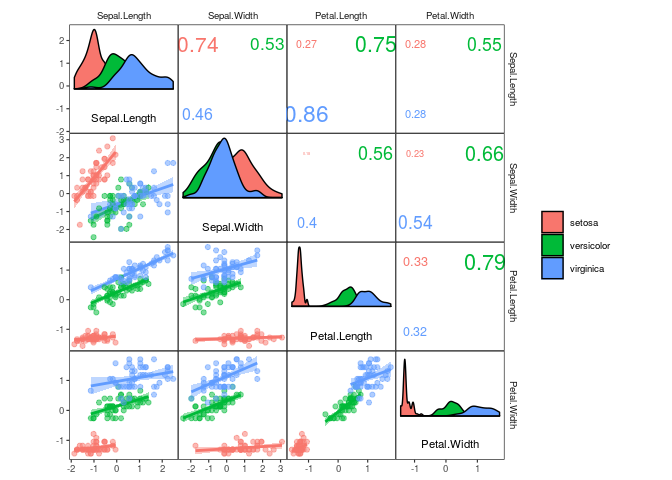
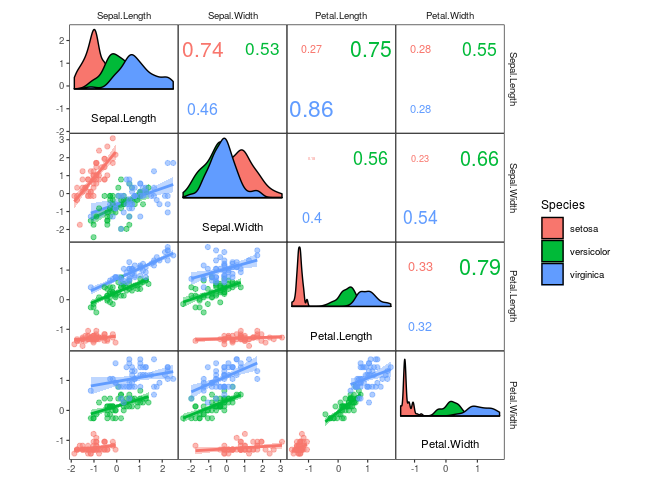
Update figures in README
* legend titles,

* squeeze argument.

diff --git a/README.md b/README.md
@@ -2,26 +2,30 @@ corrmorant: Flexible Correlation Matrices Based on ggplot2
 ================
 Roman M. Link
 
-## Description
+Description
+-----------
 
-`corrmorant` extends `ggplot2` by an automated framework for plots of
-correlation matrices that can be easily modified via regular `ggplot2`
-syntax. In addition, it provides a large set of visualization tools for
-exploratory data analysis based on correlation matrices.
+`corrmorant` extends `ggplot2` by an automated framework for plots of correlation matrices that can be easily modified via regular `ggplot2` syntax. In addition, it provides a large set of visualization tools for exploratory data analysis based on correlation matrices.
 
-| Please note that this project is a work in progress\!                                                                                                                                                                                                                                                                                                          |
-| -------------------------------------------------------------------------------------------------------------------------------------------------------------------------------------------------------------------------------------------------------------------------------------------------------------------------------------------------------------- |
-| This package is in steady development. Whenever I have time, I add or change some features. A somewhat stable version should not be too far away - look out for announcements over here. I will then begin with a regular versioning process. Until the package reaches this stage, please note that features may changes or disappear without further notice. |
+<table>
+<colgroup>
+<col width="100%" />
+</colgroup>
+<thead>
+<tr class="header">
+<th>Please note that this project is a work in progress!</th>
+</tr>
+</thead>
+<tbody>
+<tr class="odd">
+<td>This package is in steady development. Whenever I have time, I add or change some features. A somewhat stable version should not be too far away - look out for announcements over here. I will then begin with a regular versioning process. Until the package reaches this stage, please note that features may changes or disappear without further notice.</td>
+</tr>
+</tbody>
+</table>
 
-A big thank you goes out to the developers of the software without which
-this package would not be possible, especially [Hadley
-Wickham](https://github.com/hadley/) and the rest of the
-[ggplot2](https://github.com/tidyverse/ggplot2) development team for
-their incredible work.
+A big thank you goes out to the developers of the software without which this package would not be possible, especially [Hadley Wickham](https://github.com/hadley/) and the rest of the [ggplot2](https://github.com/tidyverse/ggplot2) development team for their incredible work.
 
-Here\`s a list of everyone else directly or indirectly implied in this
-package - thanks a lot for your invaluable contribution to the R
-community:
+Here\`s a list of everyone else directly or indirectly implied in this package - thanks a lot for your invaluable contribution to the R community:
 
 ``` r
 # Contributers to the packages used in corrmorant
@@ -36,71 +40,41 @@ thankr::shoulders(package = "corrmorant") %>%
   knitr::kable()
 ```
 
-| maintainer          | packages                                                                          |
-| :------------------ | :-------------------------------------------------------------------------------- |
-| R Core Team         | base, compiler, datasets, graphics, grDevices, grid, methods, stats, tools, utils |
-| Hadley Wickham      | assertthat, dplyr, ggplot2, gtable, lazyeval, scales, stringr, tidyr, vctrs       |
-| Yihui Xie           | evaluate, knitr, rmarkdown, xfun                                                  |
-| Lionel Henry        | lifecycle, purrr, rlang, tidyselect                                               |
-| Dirk Eddelbuettel   | digest, Rcpp                                                                      |
-| Jim Hester          | glue, withr                                                                       |
-| Kirill Müller       | pillar, tibble                                                                    |
-| Gábor Csárdi        | crayon, pkgconfig                                                                 |
-| Stefan Milton Bache | magrittr                                                                          |
-| Charlotte Wickham   | munsell                                                                           |
-| Achim Zeileis       | colorspace                                                                        |
-| Winston Chang       | R6                                                                                |
-| Joe Cheng           | htmltools                                                                         |
-| Jeremy Stephens     | yaml                                                                              |
-| Nathan Teetor       | zeallot                                                                           |
-| Marek Gagolewski    | stringi                                                                           |
-| Michel Lang         | backports                                                                         |
+| maintainer          | packages                                                                    |
+|:--------------------|:----------------------------------------------------------------------------|
+| R Core Team         | base, compiler, datasets, graphics, grDevices, methods, stats, tools, utils |
+| Yihui Xie           | evaluate, knitr, rmarkdown, xfun                                            |
+| Hadley Wickham      | assertthat, dplyr, stringr                                                  |
+| Lionel Henry        | purrr, rlang, tidyselect                                                    |
+| Dirk Eddelbuettel   | digest, Rcpp                                                                |
+| Gábor Csárdi        | crayon, pkgconfig                                                           |
+| Kirill Müller       | pillar, tibble                                                              |
+| Winston Chang       | R6                                                                          |
+| Stefan Milton Bache | magrittr                                                                    |
+| Marek Gagolewski    | stringi                                                                     |
+| Jim Hester          | glue                                                                        |
+| Jeremy Stephens     | yaml                                                                        |
+| Joe Cheng           | htmltools                                                                   |
 
-## Motivation
+Motivation
+----------
 
-The inspection of correlation matrices is a central part of exploratory
-data analysis. As collinearity between predictors has the potential to
-seriously compromise the quality of regression results - as well as
-hinder a straightforward interpretation of regression coefficients - the
-inspection of the correlations among potential predictor variables as
-well as the desired response should precede fitting any regression model
-with more than one predictor.
+The inspection of correlation matrices is a central part of exploratory data analysis. As collinearity between predictors has the potential to seriously compromise the quality of regression results - as well as hinder a straightforward interpretation of regression coefficients - the inspection of the correlations among potential predictor variables as well as the desired response should precede fitting any regression model with more than one predictor.
 
-If you are using Bayesian methods, you will also often be faced with the
-necessity to inspect the correlation between parameters estimated from
-MCMC samples, which means you have to effectively visualize correlations
-in often huge datasets.
+If you are using Bayesian methods, you will also often be faced with the necessity to inspect the correlation between parameters estimated from MCMC samples, which means you have to effectively visualize correlations in often huge datasets.
 
-In addition, with structural equation models (and their cousins,
-confirmatory factor analysis and path analysis), there is an entire
-class of models that traditionally is estimated directly from the
-covariance matrix of a multivariate dataset.
+In addition, with structural equation models (and their cousins, confirmatory factor analysis and path analysis), there is an entire class of models that traditionally is estimated directly from the covariance matrix of a multivariate dataset.
 
-Long story short - there are plenty of reasons why one might want to
-visually inspect the interrelationships between all variables in a
-dataset simultaneously. However, while R provides plenty of functions
-and packages to display correlations, so far (at least to my knowledge)
-all of them are only able to display certain types of correlation plots,
-and none of them truly leverages the full flexibility of `ggplot2`.
+Long story short - there are plenty of reasons why one might want to visually inspect the interrelationships between all variables in a dataset simultaneously. However, while R provides plenty of functions and packages to display correlations, so far (at least to my knowledge) all of them are only able to display certain types of correlation plots, and none of them truly leverages the full flexibility of `ggplot2`.
 
-`corrmorant` is meant to give you this flexibility. It is designed to
-blend in seamlessly in a data analysis framework based on the
-`tidyverse`. It offers a broad variety of functions that allow you to
-create a large number of different correlation plots, and can be
-extended easily with new geoms, stats and themes, just as `ggplot2`
-itself.
+`corrmorant` is meant to give you this flexibility. It is designed to blend in seamlessly in a data analysis framework based on the `tidyverse`. It offers a broad variety of functions that allow you to create a large number of different correlation plots, and can be extended easily with new geoms, stats and themes, just as `ggplot2` itself.
 
-In case you wonder about the name: One day when I was riding my bike to
-work and thinking about stupid puns related to **corr**elation
-**m**atrices, a shiny black bird appeared. In this very moment I knew
-that I’d have to take the loose collection of ideas concerning
-correlation plots that was haunting me for a while and convert it into a
-real package…
+In case you wonder about the name: One day when I was riding my bike to work and thinking about stupid puns related to **corr**elation **m**atrices, a shiny black bird appeared. In this very moment I knew that I'd have to take the loose collection of ideas concerning correlation plots that was haunting me for a while and convert it into a real package...
 
-## Installation
+Installation
+------------
 
-The package can be installed from Github using
-`devtools::install_github()`:
+The package can be installed from Github using `devtools::install_github()`:
 
 ``` r
 # install devtools package if necessary
@@ -115,26 +89,28 @@ Afterwards, the package can be loaded regularly via `library()`:
 library(corrmorant)
 ```
 
-## Simple plots with corrmorant()
+    ## Loading required package: ggplot2
 
-The `corrmorant()` function is a simple wrapper function around the more
-complex `gcorrm()` function that can be used to create first, simple
-plots of correlation matrices. Currently, three different styles are
-available, “light”, “dark” and “blue\_red”:
+    ## Loading required package: rlang
+
+Simple plots with corrmorant()
+------------------------------
+
+The `corrmorant()` function is a simple wrapper function around the more complex `gcorrm()` function that can be used to create first, simple plots of correlation matrices. Currently, three different styles are available, "light", "dark" and "blue\_red":
 
 ``` r
 # correlation plot of the iris data using style = 'light'
 corrmorant(iris, style = "light")
 ```
 
-![](README_files/figure-gfm/unnamed-chunk-4-1.png)<!-- -->
+![](README_files/figure-markdown_github/unnamed-chunk-4-1.png)
 
 ``` r
 # the "dark" style has a dark background in the diagonal facets
 corrmorant(iris, style = "dark")
 ```
 
-![](README_files/figure-gfm/unnamed-chunk-4-2.png)<!-- -->
+![](README_files/figure-markdown_github/unnamed-chunk-4-2.png)
 
 ``` r
 # in the "blue_red" style, colors and correlation labels are colored by the strength of
@@ -142,26 +118,14 @@ corrmorant(iris, style = "dark")
 corrmorant(iris, style = "blue_red")
 ```
 
-![](README_files/figure-gfm/unnamed-chunk-4-3.png)<!-- -->
+![](README_files/figure-markdown_github/unnamed-chunk-4-3.png)
 
-## Basic usage of ggcorrm()
+Basic usage of ggcorrm()
+------------------------
 
-While `corrmorant()` may be useful for many basic data inspection tasks,
-its functionality is rather limited. If you want to take control of the
-elements in a plot, you can use `ggcorrm()` together with the corrmorant
-selector functions `lotri()`, `utri()` and `dia()` that direct ggplot
-layers to the lower or upper triangle or the plot diagonal of a
-`ggcorrm()` plot, respectively. In addition, corrmorant offers a series
-of utility functions for readymade data summaries on the plot diagonal
-(`dia_names()`, `dia_density()`, `dia_histogram` and `dia_freqpoly()`)
-as well as a couple of new stats, e.g. `stat_corrtext()` for displaying
-correlation strength in correlation plot facets. The new `corrmorant`
-stats can generally be called in a simplified form by prefixing their
-name with `lotri_` or `utri_`, e.g. `lotri_corrtext()` and
-`utri_corrtext()`
+While `corrmorant()` may be useful for many basic data inspection tasks, its functionality is rather limited. If you want to take control of the elements in a plot, you can use `ggcorrm()` together with the corrmorant selector functions `lotri()`, `utri()` and `dia()` that direct ggplot layers to the lower or upper triangle or the plot diagonal of a `ggcorrm()` plot, respectively. In addition, corrmorant offers a series of utility functions for readymade data summaries on the plot diagonal (`dia_names()`, `dia_density()`, `dia_histogram` and `dia_freqpoly()`) as well as a couple of new stats, e.g. `stat_corrtext()` for displaying correlation strength in correlation plot facets. The new `corrmorant` stats can generally be called in a simplified form by prefixing their name with `lotri_` or `utri_`, e.g. `lotri_corrtext()` and `utri_corrtext()`
 
-For example, `corrmorant(iris, style = "light")` can be recreated by the
-following code:
+For example, `corrmorant(iris, style = "light")` can be recreated by the following code:
 
 ``` r
 p1 <- ggcorrm(iris) +
@@ -172,45 +136,35 @@ p1 <- ggcorrm(iris) +
 p1
 ```
 
-![](README_files/figure-gfm/unnamed-chunk-5-1.png)<!-- -->
+![](README_files/figure-markdown_github/unnamed-chunk-5-1.png)
 
-If you want, you can add additional ggplot2 layers, using the
-appropriate corrmorant selectors to restrict them to the appropriate set
-of facets. For example, you might want to display a linear trend in the
-facets on the lower triangle:
+If you want, you can add additional ggplot2 layers, using the appropriate corrmorant selectors to restrict them to the appropriate set of facets. For example, you might want to display a linear trend in the facets on the lower triangle:
 
 ``` r
 p1 + lotri(geom_smooth(method = "lm"))
 ```
 
-![](README_files/figure-gfm/unnamed-chunk-6-1.png)<!-- -->
+![](README_files/figure-markdown_github/unnamed-chunk-6-1.png)
 
-The horrific fit of these linear regressions results from the fact that
-the iris dataset consists of data from three different species. You
-might want to include this information into your plot by plotting the
-three species in different colours, which can easily be achieved by
-setting plot level aesthetics using the `mapping` argument of
-`ggcorrm()`:
+The horrific fit of these linear regressions results from the fact that the iris dataset consists of data from three different species. You might want to include this information into your plot by plotting the three species in different colours, which can easily be achieved by setting plot level aesthetics using the `mapping` argument of `ggcorrm()`:
 
 ``` r
 ggcorrm(iris, mapping = aes(col = Species, fill = Species)) +
   lotri(geom_smooth(method = "lm")) +
   lotri(geom_point(alpha = 0.5)) +
-  utri_corrtext(nrow = 2) +
+  utri_corrtext(nrow = 2, squeeze = 0.6) +
   dia_names(y_pos = 0.1, size = 3) +
   dia_density(lower = 0.4, color = 1)
 ```
 
-![](README_files/figure-gfm/unnamed-chunk-7-1.png)<!-- -->
+![](README_files/figure-markdown_github/unnamed-chunk-7-1.png)
 
-## Correlation heatmaps and more
+Correlation heatmaps and more
+-----------------------------
 
-`corrmorant` offers a series of new geoms and stats that are designed to
-improve the display of correlation strength.
+`corrmorant` offers a series of new geoms and stats that are designed to improve the display of correlation strength.
 
-For example, there is a set of stats for correlation heatmaps and the
-likes, which can be very useful when inspecting datasets with large
-numbers of variables:
+For example, there is a set of stats for correlation heatmaps and the likes, which can be very useful when inspecting datasets with large numbers of variables:
 
 ``` r
 select(mtcars, mpg, disp:qsec) %>% 
@@ -223,12 +177,9 @@ ggcorrm() +
   scale_fill_corr() 
 ```
 
-![](README_files/figure-gfm/unnamed-chunk-8-1.png)<!-- -->
+![](README_files/figure-markdown_github/unnamed-chunk-8-1.png)
 
-With `lotri_/utri_heatpoint()`, you can scale the diameter of any
-character you want by correlation strength. And yes, your right, this
-means you can display correlation strength with purple skulls and angry
-cat faces:
+With `lotri_/utri_heatpoint()`, you can scale the diameter of any character you want by correlation strength. And yes, your right, this means you can display correlation strength with purple skulls and angry cat faces:
 
 ``` r
 airquality %>% 
@@ -244,17 +195,14 @@ ggcorrm(aes(col = .corr)) +
     ## Some variables are highly skewed (abs(skew) > 1).
     ## Consider transformation for better display.
 
-![](README_files/figure-gfm/unnamed-chunk-9-1.png)<!-- -->
+![](README_files/figure-markdown_github/unnamed-chunk-9-1.png)
 
-## Print output of arbitrary functions of the data
+Print output of arbitrary functions of the data
+-----------------------------------------------
 
-If you want to place text labels for the output of arbitrary functions
-in your plots, you can use `lotri/utri_funtext()`, which uses the same
-placement rules as `stat_corrtext()`.
+If you want to place text labels for the output of arbitrary functions in your plots, you can use `lotri/utri_funtext()`, which uses the same placement rules as `stat_corrtext()`.
 
-For instance, you could add lables for the slope of the linear models in
-the lower triangle (note how y and x are swapped to account for the
-reverse axes in the upper triangle).
+For instance, you could add lables for the slope of the linear models in the lower triangle (note how y and x are swapped to account for the reverse axes in the upper triangle).
 
 ``` r
 # function to compute linear model slopes
@@ -269,16 +217,11 @@ ggcorrm(iris, mapping = aes(col = Species, fill = Species)) +
   dia_names(y_pos = .1)
 ```
 
-![](README_files/figure-gfm/unnamed-chunk-10-1.png)<!-- -->
+![](README_files/figure-markdown_github/unnamed-chunk-10-1.png)
 
-Besides using a two-parameter formula, `stat_funtext()`, the stat
-underlying `lotri/utri_funtext()`, also accepts rlang style lambda
-expressions describing functions and quosures generated with `quo()`
-(referring to the variable names `x` and `y`).
+Besides using a two-parameter formula, `stat_funtext()`, the stat underlying `lotri/utri_funtext()`, also accepts rlang style lambda expressions describing functions and quosures generated with `quo()` (referring to the variable names `x` and `y`).
 
-Here are two ways to copy the output of `stat_corrtext()` - using a
-lambda expression (a formula containing `.x` and `.y`) in the upper and
-a quosure in the lower triangle:
+Here are two ways to copy the output of `stat_corrtext()` - using a lambda expression (a formula containing `.x` and `.y`) in the upper and a quosure in the lower triangle:
 
 ``` r
 ggcorrm(iris, aes(col = .corr), rescale = "as_is") +
@@ -288,4 +231,4 @@ ggcorrm(iris, aes(col = .corr), rescale = "as_is") +
   scale_color_corr()
 ```
 
-![](README_files/figure-gfm/unnamed-chunk-11-1.png)<!-- -->
+![](README_files/figure-markdown_github/unnamed-chunk-11-1.png)
